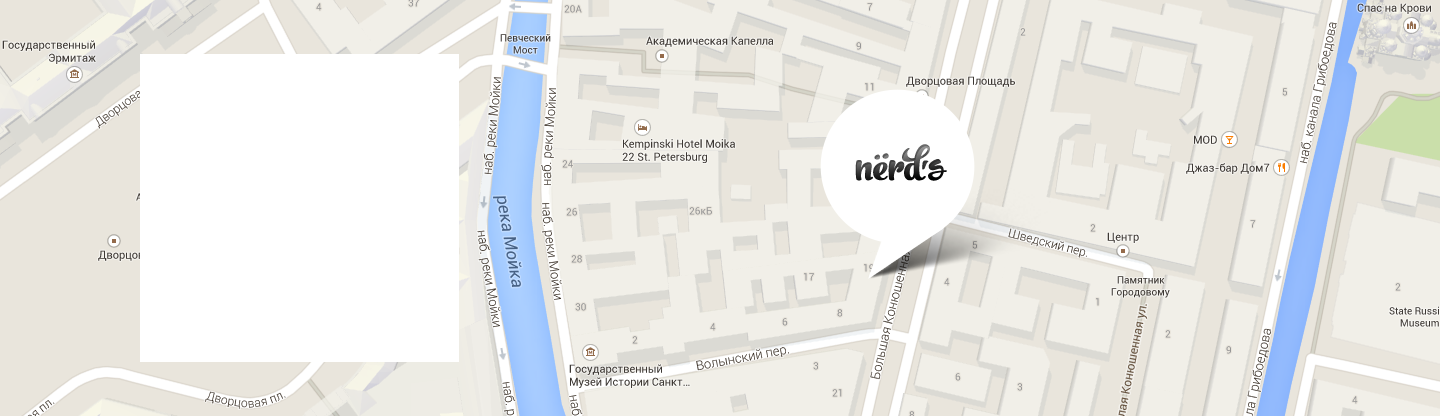
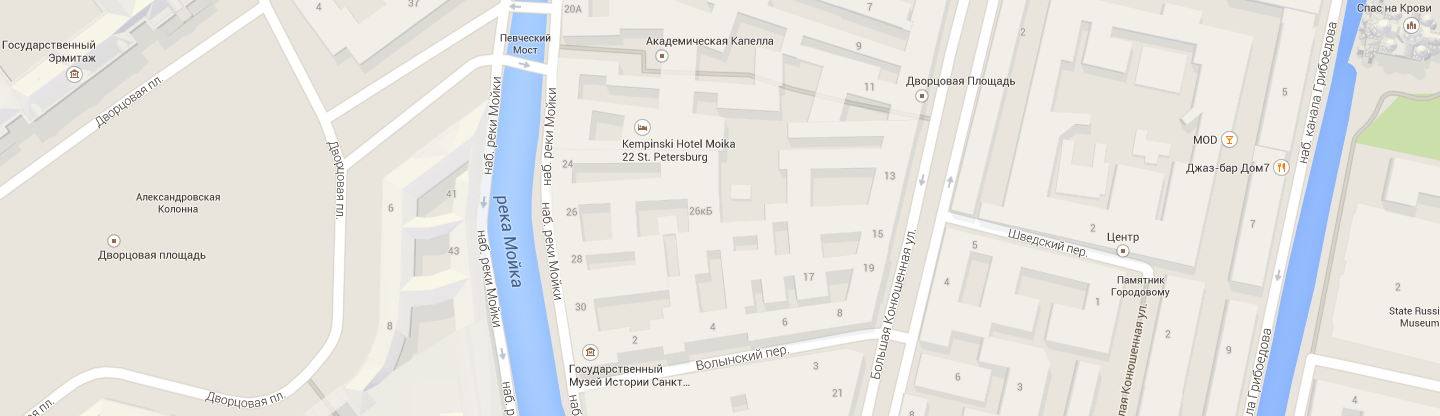
промежуточная сетка

Changed region(s): [[0.0938, 0.125, 0.3438, 0.875], [0.5625, 0.2188, 0.6875, 0.6562]]

diff --git a/catalog.html b/catalog.html
@@ -34,49 +34,46 @@
             </div>
             <h1> Магазин готовых шаблонов</h1>
         </header>
-        <main class="container">
+        <main class="container clearfix">
             <div class="index-content-left">
-              <b class="index-content-title">Стоимость:</b>
-              <div class="price-item">
-                      <input type="range" min="0" max="15000" step="1" value="10000">
-                <div class="index-content-left">
-                <b class="index-content-title">Сетка:</b>
+              <form action="selection">
+                  <b class="index-content-title">Стоимость:</b>
+                  <div class="price-item">
+                          <input type="range" min="0" max="15000" step="1" value="10000">
+                  </div>
+                  <b class="index-content-title">Сетка:</b>
                   <div class="producers-item">
-                    <form action="selection">
-                        <input type="radio" name="choice" id="field-a" checked>
-                        <label for="field-a">Адаптивная</label><br/>
-                        <input type="radio" name="choice" id="field-f">
-                        <label for="field-f">Фиксированная</label><br/>
-                        <input type="radio" name="choice" id="field-r">
-                        <label for="field-r">Резиновая</label> <br/>
-                      <div class="index-content-left">
-                       <b class="index-content-title">Особенности: </b>
-                        <div class="products-item">
-                                <input type="checkbox" name="choice" id="field1" checked>
-                                <label for="field1">Слайдер</label> <br/>
-                                <input type="checkbox" name="choice" id="field2">
-                                <label for="field2">Блок преимуществ</label> <br/>
-                                <input type="checkbox" name="choice" id="field3" checked>
-                                <label for="field3">Новости</label><br/>
-                                <input type="checkbox" name="choice" id="field4">
-                                <label for="field4">Галерея</label> <br/>
-                                <input type="checkbox" name="choice" id="field5">
-                                <label for="field5">Корзина</label> <br/>
-                        </div>
-                      </div>
-                     </form>
-                    </div>
-                 </div>
-                        <div>
-                            <form action="select">
-                                <input type="submit" value="Показать">
-                            </form>
-                        </div>
-              </div>
+                            <input type="radio" name="choice" id="field-a" checked>
+                            <label for="field-a">Адаптивная</label><br/>
+                            <input type="radio" name="choice" id="field-f">
+                            <label for="field-f">Фиксированная</label><br/>
+                            <input type="radio" name="choice" id="field-r">
+                            <label for="field-r">Резиновая</label> <br/>
+                  </div>
+                  <b class="index-content-title">Особенности:</b>
+                  <div class="products-item">
+                                    <input type="checkbox" name="choice" id="field1" checked>
+                                    <label for="field1">Слайдер</label> <br/>
+                                    <input type="checkbox" name="choice" id="field2">
+                                    <label for="field2">Блок преимуществ</label> <br/>
+                                    <input type="checkbox" name="choice" id="field3" checked>
+                                    <label for="field3">Новости</label><br/>
+                                    <input type="checkbox" name="choice" id="field4">
+                                    <label for="field4">Галерея</label> <br/>
+                                    <input type="checkbox" name="choice" id="field5">
+                                    <label for="field5">Корзина</label> <br/>
+                  </div>
+                  <input type="submit" value="Показать">
+              </form>
             </div>
+                  <div class="index-content-right"
                     <div class="card">
+                        <img class="card-image" src="img/sedona.jpg" width="360" height="616" alt="sedona">
+                        <div class="card-content">
                         <b class="card-name">SEDONA</b>
-                        <p><a href="#"><img class="card-image" src="img/sedona.jpg" width="360" height="616" alt="sedona"></a>Информационный сайт для туристов</p>
+                        <p>Информационный сайт для туристов</p>
+                        <a href="#">9900 р.</a>
+                        </div>
                     </div>
                     <div class="card">
                         <img class="card-image" src="img/pink.jpg" width="360" height="616" alt="pink">
@@ -93,28 +90,29 @@
                     <div class="card">
                         <img class="card-image" src="img/kvas.jpg" width="360" height="616" alt="kvas">
                     </div>
+                    <div class="pages">
+                    <nav class="other">
+                      <ul class="pagination">
+                      <li class="btn">
+                        <a href="#">1</a>
+                      </li>
+                      <li class="btn">
+                        <a href="#">2</a>
+                      </li>
+                      <li class="btn">
+                        <a href="#">3</a>
+                      </li>
+                      <li class="btn">
+                        <a href="#">СЛЕДУЮЩАЯ</a>
+                       </li>
+                       </ul>
+                    </nav>
+                    </div>
+                </div>
             </main>
-            <div>
-              <nav class="pages">
-                <ul class="pagination">
-                    <li>
-                        <a class="btn" href="#">1</a>
-                    </li>
-                    <li>
-                        <a class="btn" href="#">2</a>
-                    </li>
-                    <li>
-                        <a class="btn" href="#">3</a>
-                    </li>
-                    <li>
-                        <a class="btn" href="#">СЛЕДУЮЩАЯ</a>
-                    </li>
-                </ul>
-              </nav>
-            </div>
-            <div class="map clearfix">
+            <div class="map">
+                <img src="img/map-marker.png" width="1200" height="416" alt="map">
                 <div class="map-canvas">
-                    <img src="img/map-marker.jpg" width="1440" height="416" alt="map">
                     <div class="map-content">
                         <b class="index-content-title">Nёrds design studio</b>
                         <p>

diff --git a/css/style.css b/css/style.css
@@ -22,8 +22,10 @@ body {
   clear: both;
 }
 
-.header{
+header{
   background-color: #eeeeee;
+  height: 360px;
+  margin-bottom: 60px;
 }
 
 .container {
@@ -35,6 +37,7 @@ body {
 .logo {
   float: left;
   width: 300px;
+  margin-top: 50px;
   margin-right: auto;
   margin-left: auto;
 }
@@ -42,14 +45,44 @@ body {
 .menu {
   float: left;
   width: 640px;
-  vertical-aline: top;
 }
 
 .menu-item {
   float: right;
   width: 100px;
   list-style: none;
+}
+
+.menu-item ul{
+  margin: 0;
+  padding: 0;
+  list-style: none;
+  font-size: 0;
+}
+
+.menu-item li{
+  display: inline-block;
+  vertical-aline: top;
+  font-size: 16px;
+  list-style: none;
+  line-height: 30px;
+}
+
+.menu-item a {
+  display: block;
   text-decoration: none;
+  list-style: none;
+  color: #000000;
+}
+
+.features-item b, p{
+  background-color: #eeeeee;
+}
+
+h1{
+  float: top;
+  vertical-aligh: middle;
+  font-size: 55px;
 }
 
 .features-item {
@@ -104,27 +137,59 @@ body {
   margin-right: 0;
 }
 
-.index-content-left .card{
+.index-content-left {
   float: left;
-  width: 360px;
+  width: 260px;
+  margin: 20px;
+}
+
+.index-content-right {
+  float: right;
+  width: 860px;
+  margin: 20px;
+  font-size: 0;
+}
+
+.index-content-title{
+  font-size: 18px;
+  line-height: 30px;
+}
+
+.producers-item{
+  font-size: 16px;
+  line-height: 20px;
+}
+
+.card {
+  font-size: 16px;
+  width: 300px;
+  display: inline-block;
+  vertical-align: top;
   margin: 40px;
 }
 
-.card:last-child (2n) {
+.card:nth-child(2n+2) {
   margin-right: 0;
 }
 
-.pagination {
-  display: inline-block;
+.pagination li{
+  display: inline;
   width: 440px;
-  margin: 60px 310px 60px 400px;
+  margin: auto;
   vertical-aligh: top;
+}
+.pagination a{
+  text-decoration: none;
+  list-style: none;
+  color: #000000;
+  font-size: 16px;
+  line-height: 18px;
 }
 
 .map-content {
   width: 320px;
   height: 310px;
-  background-color: #ffffff;
+  background: url(img/map-marker.png);
 }
 
 .main-footer {

diff --git a/index.html b/index.html
@@ -125,7 +125,7 @@
                                 <hr/>
       <div class="map clearfix">
           <div class="map-canvas">
-              <img src="img/map-marker.jpg" width="1440" height="416" alt="map">
+              <img src="img/map-marker.png" width="1200" height="416" alt="map">
                 <div class="map-content">
                   <b class="index-content-title">Nёrds design studio</b>
                     <p>
